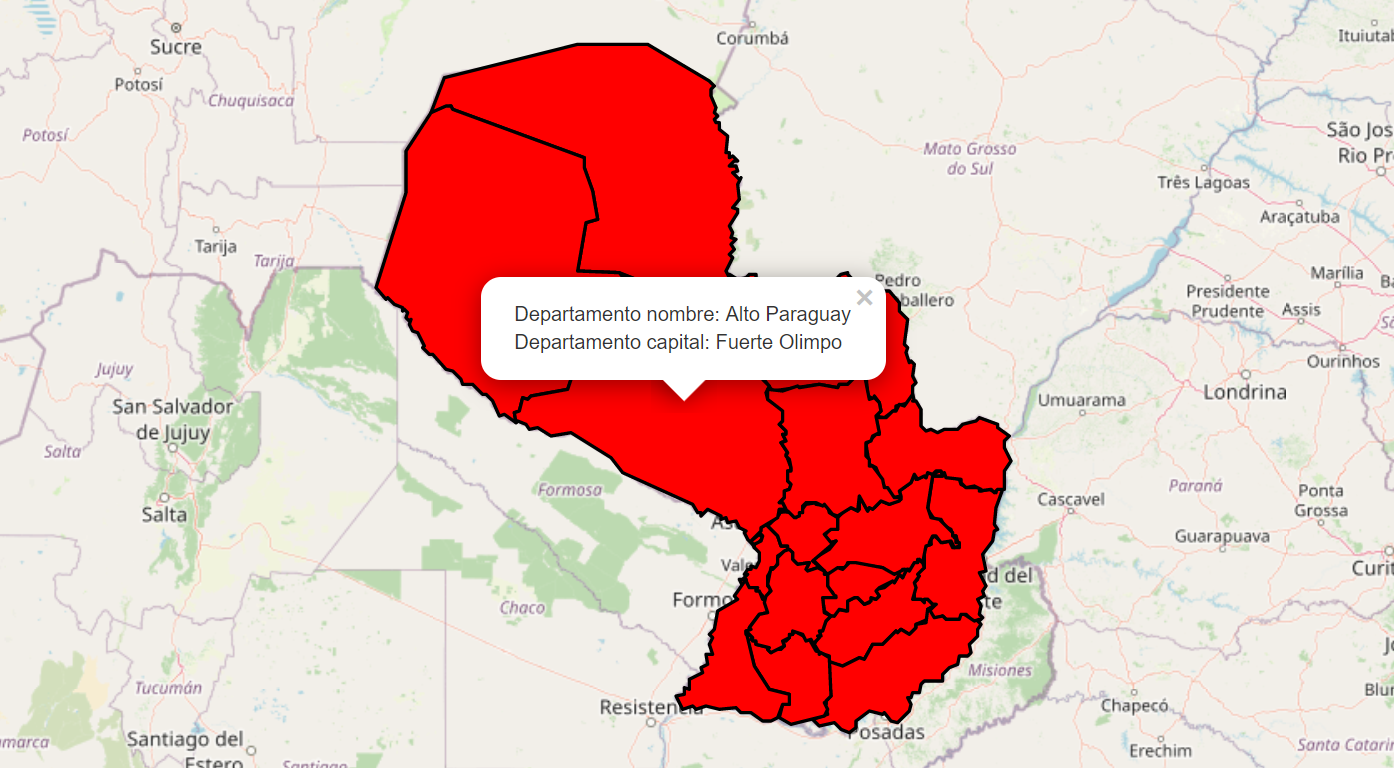
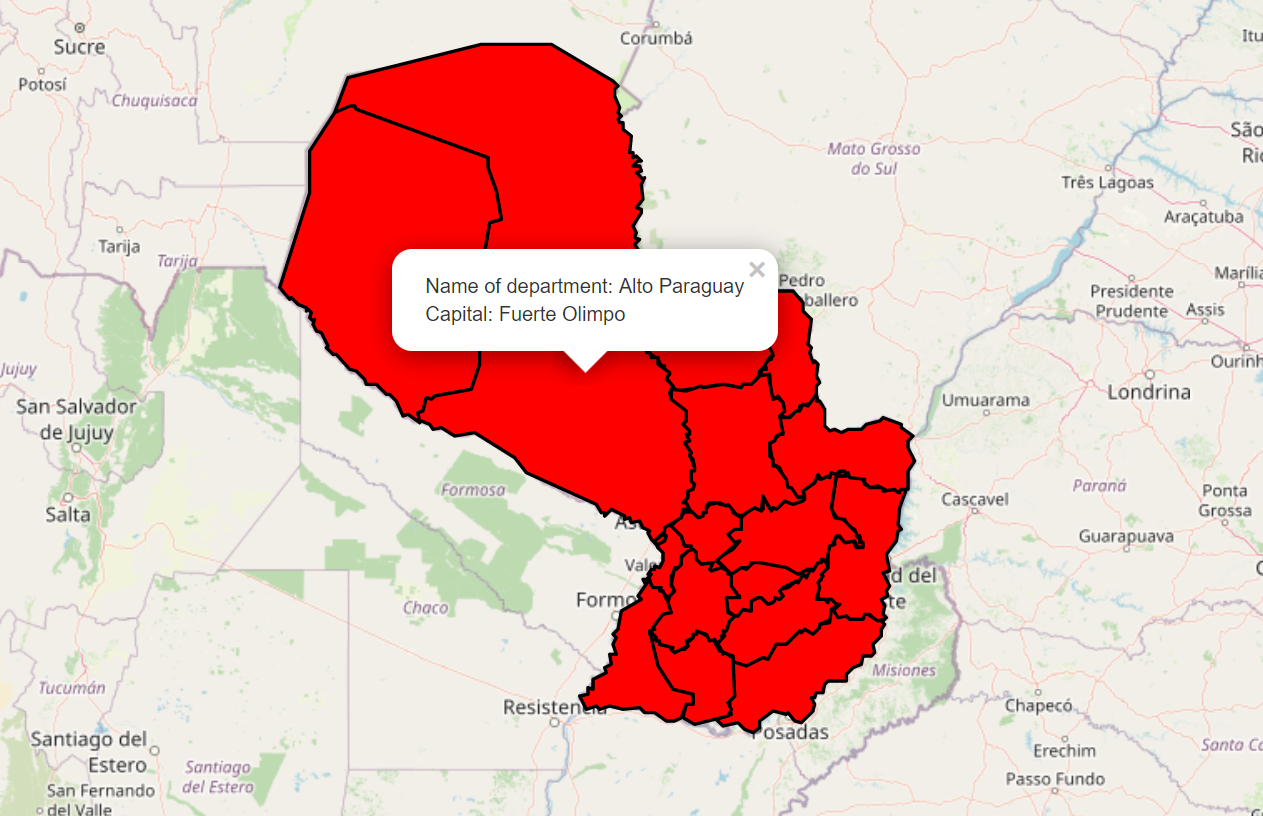
Translate text to english.

diff --git a/src/components/Map.js b/src/components/Map.js
@@ -13,8 +13,8 @@ const style = {
 };
 
 const onEachFeature = (feature, layer) => {
-  let popupContent = `Departamento nombre: ${feature.properties.departamento_nombre} 
-    <br> Departamento capital: ${feature.properties.departamento_capital}`;
+  let popupContent = `Name of department: ${feature.properties.departamento_nombre} 
+    <br> Capital: ${feature.properties.departamento_capital}`;
   if (feature.properties && feature.properties.popupContent) {
     popupContent += feature.properties.popupContent;
   }
